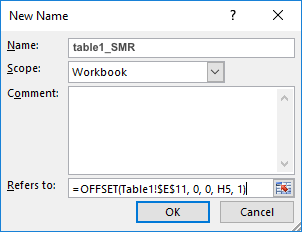
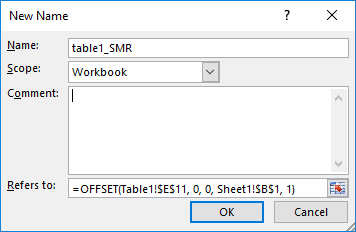
match updated version with new screenshots

diff --git a/docs/charts-auto-update.html b/docs/charts-auto-update.html
@@ -102,7 +102,7 @@
 <p>Task: to have the Excel charts automatically update with the addition of new rows in a table.</p>
 <div id="steps" class="section level2 unnumbered">
 <h2>Steps</h2>
-<p>Replace every formula in the chart with a named formula that includes an offset function.</p>
+<p>Replace every formula in the chart with a named formula that includes an offset function to auto-detect the data range dynamically.</p>
 <p>For every data series that you want to automatically update:</p>
 <ol style="list-style-type: decimal">
 <li>Start by creating a named formula.</li>
@@ -111,15 +111,15 @@
 <li>Reference the column of the data series that you wish to update.</li>
 <li>Reference the number of rows of the table which is being updated.</li>
 </ul></li>
-<li>Save the named variable.</li>
+<li>Save the named formula.</li>
 <li>Have the data series you want to change reference this new named formula.</li>
 </ol>
 </div>
 <div id="details" class="section level2 unnumbered">
 <h2>Details</h2>
-<p>In this worked example we are using <a href="https://github.com/NHS-NSS-transforming-publications/automating-excel/raw/master/HSMR_TableA1a_automated.xlsm">HSMR_TableA1a_Automated</a>, with sheet “Chart2”. Each quarter a new row will be added, we need to make our chart automically update to include this new data. We can do this with an <code>OFFSET</code> function but need to set this up as a named variable to then include in our Chart Series values.</p>
+<p>In this worked example we are using <a href="https://github.com/NHS-NSS-transforming-publications/automating-excel/raw/master/HSMR_TableA1a_automated.xlsm">HSMR_TableA1a_Automated</a>, with sheet “Chart2”. Each quarter a new row will be added, we need to make our chart automically update to include this new data. We can do this with an <code>OFFSET</code> function but need to set this up as a named function to then include in our Chart Series values.</p>
 <ol style="list-style-type: decimal">
-<li>First, set up a dynamic count for the number of rows in the table. In this example, we’ve set up a count in cell <code>H5</code> with the formula <code>COUNTA(F11:F1000)</code> - this will count the number of non-blank cells in this range up to <code>F1000</code>. If the data exceeds this, the formula will need to be updated.</li>
+<li>First, set up a dynamic count for the number of rows in the table. In this example, we’ve set up a sheet for calculations, <code>Sheet 1</code> and entered the formula <code>COUNTA(Table1!C:C)-1</code> in one of the cells - this will count the number of non-blank cells in this range.</li>
 </ol>
 <p><img src="images/chartau-01-countrows.PNG" style="display: block; margin: auto;" />  </p>
 <ol start="2" style="list-style-type: decimal">
@@ -135,7 +135,7 @@
 </ol>
 <p><img src="images/chartau-04-createname.PNG" style="display: block; margin: auto;" />  </p>
 <ol start="5" style="list-style-type: decimal">
-<li>Finally, select the chart and right-click, click on “Select Data…”, and then click on “Edit” for the series values. Add the named variable as the series value.</li>
+<li>Finally, select the chart and right-click, click on “Select Data…”, and then click on “Edit” for the series values. Add the named function as the series value.</li>
 </ol>
 <p><img src="images/chartau-05-editseries.PNG" style="display: block; margin: auto;" />  </p>
 <p>These steps should then be repeated for the X-Axis values, and once for each line within your chart. After completing this, the charts should be automically updated with each new quarter’s data that is added.</p>

diff --git a/docs/index.html b/docs/index.html
@@ -120,7 +120,7 @@
 <ul>
 <li>If R is used in the data wrangling/analysis process then the <code>openxlsx</code> package can be used to automitcally populate the data tab, again decreasing manual steps in the workflow.</li>
 <li>Before starting to design/re-design an Excel table, consider all the data requirements to populate the content. This will include not just standard data items such as figures and labels, but also items required for titles and footnotes. This many require additions to, or re-structuring of, the underlying data.</li>
-<li>The ‘dynamic ranges’ formula in Excel will be key when creating charts which update automatically, so it will be useful to be familiar with this.</li>
+<li>The ‘dynamic ranges’ formula, <code>offset()</code>, in Excel will be key when creating charts which update automatically, so it will be useful to be familiar with this.</li>
 <li><code>VLOOKUP</code> will be used to search data and create cell content.</li>
 <li>In order to create drop-down selection, we recommend using an alternative method to macros by clicking: Developer &gt; Insert &gt; Form Controls &gt; Combo Box (see <a href="https://github.com/NHS-NSS-transforming-publications/automating-excel/raw/master/HSMR_TableA1a_automated.xls">‘HSMR_TableA1a_automated.xls’</a> for examples.)</li>
 </ul>
